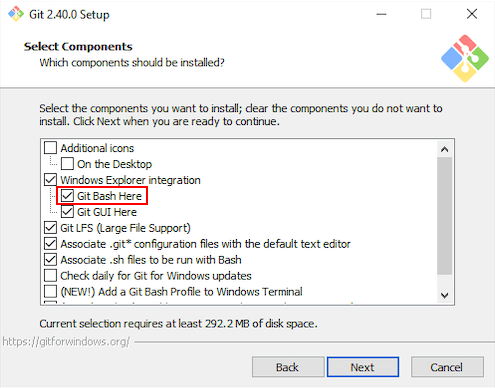
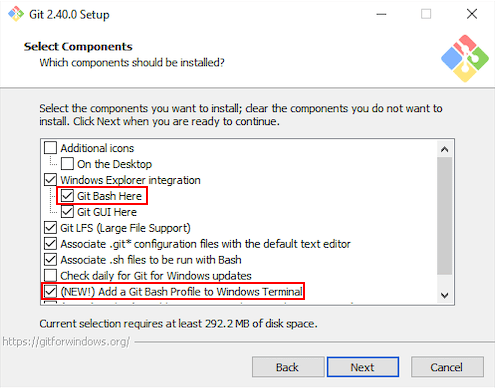
updated windows git installation

Changed region(s): [[0.0606, 0.7113, 0.6364, 0.7732]]

diff --git a/docs/installation/windows/git.md b/docs/installation/windows/git.md
@@ -28,7 +28,8 @@ It is **not** a good idea (as some have done before) to install it in a OneDrive
 | :----------------------: |
 | ![Components](components.png) |
 
-Make sure Git Bash Here is checked.
+* Make sure Git Bash Here is checked.
+* Make sure Add a Git Bash Profile to Windows Terminal is also checked.
 
 ## Default Editor
 
